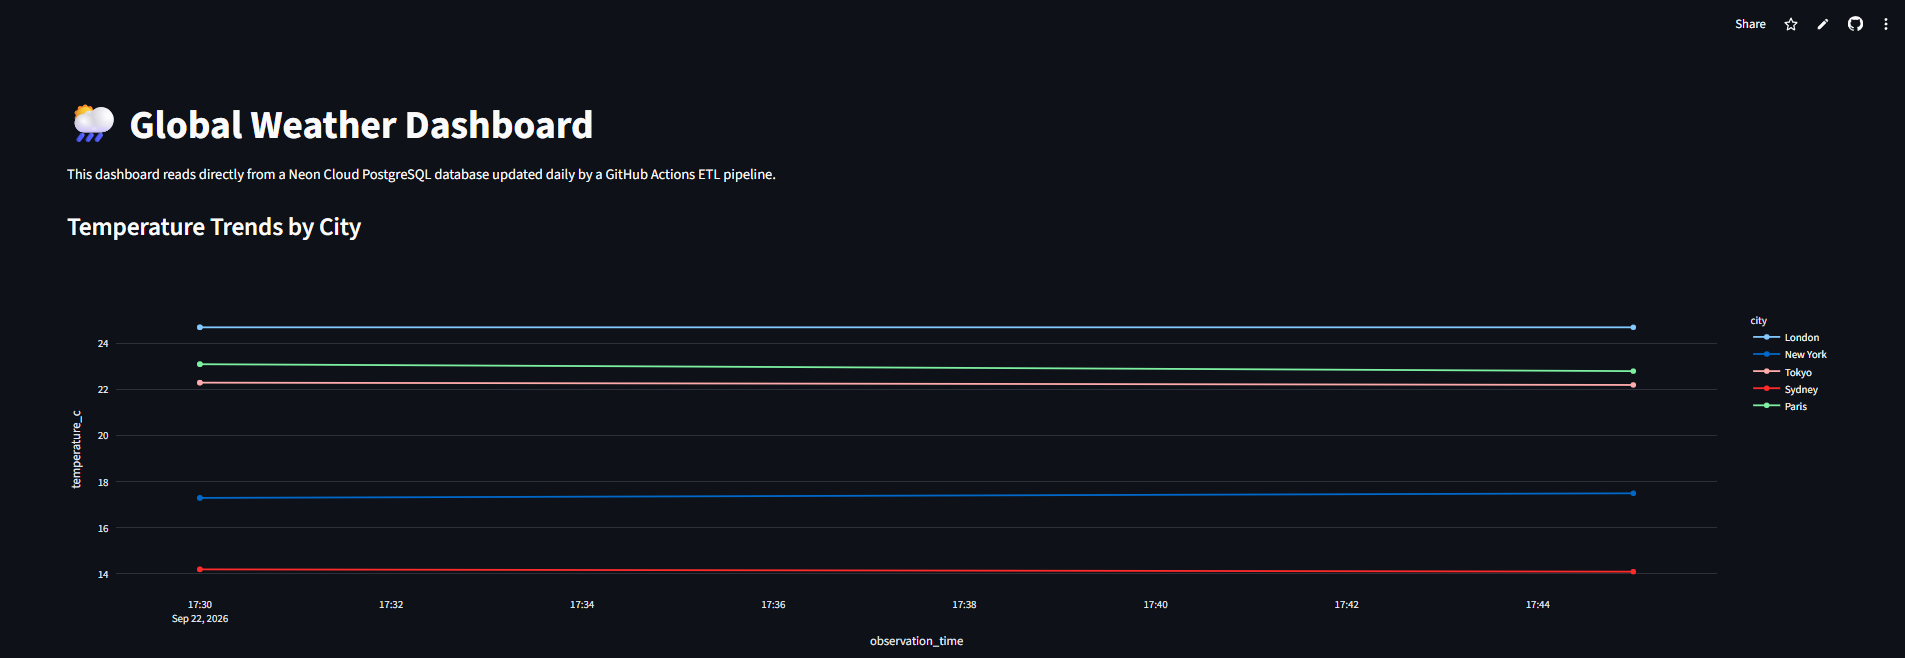
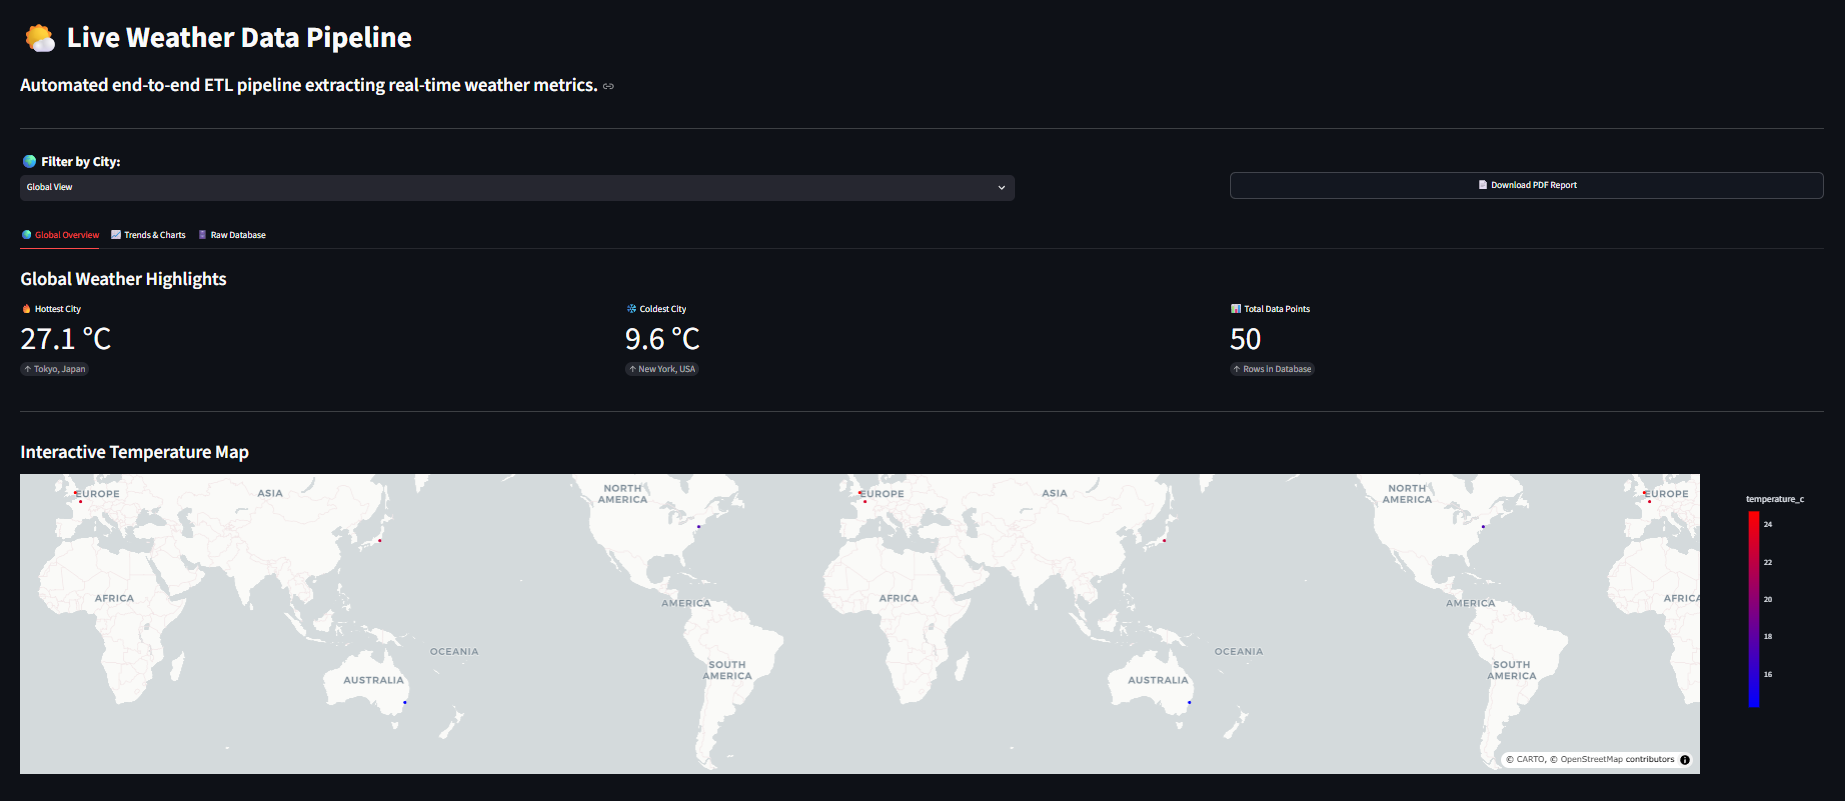
Adjusted README file

diff --git a/README.md b/README.md
@@ -1,35 +1,31 @@
-# Automated Weather ETL Pipeline & Dashboard 🌦
-**[🔴 View Live Dashboard Here](https://automated-weather-etl-pipeline-firdauslani.streamlit.app/)**
-![Weather Dashboard](dashboard.png)
+# ⛅ Automated Weather ETL Pipeline & Dashboard
 
-## Objective
-An end-to-end Data Engineering pipeline that extracts daily weather data for multiple global cities, transforms it into a structured format, loads it into a local SQLite database, and visualizes the results in an interactive web dashboard.
+An end-to-end data engineering portfolio project that automatically extracts live weather data for global cities, stores it in a serverless cloud PostgreSQL database, and visualizes it via a highly interactive web dashboard.
 
-This project demonstrates core ETL concepts, batch processing, automated scheduling, robust error logging, and data visualization.
+![Live Dashboard](dashboard.png)
 
-## Architecture & Data Flow
-1. **Extract:** Fetches real-time weather data (temperature, wind speed) for 5 major cities via the [Open-Meteo API](https://open-meteo.com/). Implements rate-limiting to respect API constraints.
-2. **Transform:** Uses `pandas` to flatten nested JSON data, filter required fields, and inject critical ETL metadata (processing timestamps).
-3. **Load:** Appends the cleaned, batched data into a local `SQLite` database without duplicating historical records.
-4. **Automate:** Scheduled via Windows Task Scheduler to run silently in the background every day.
-5. **Consume:** An interactive `Streamlit` web application reads directly from the SQLite database to display temperature trends and raw data using `plotly`.
+## 🚀 Live Application
+[View the Live Streamlit Dashboard Here](https://automated-weather-etl-pipeline-firdauslani.streamlit.app/)
 
-## Tech Stack
-* **Language:** Python 3
-* **Data Processing:** `pandas`, `requests`
-* **Database:** SQLite (`sqlite3`)
-* **Visualization:** `streamlit`, `plotly`
-* **Orchestration:** Windows Task Scheduler
+## 🛠 Architecture & Tech Stack
+* **Data Source:** Open-Meteo API (Live temperature and wind speed)
+* **Extract & Transform:** Python (Pandas, Requests)
+* **Load & Storage:** Neon Cloud PostgreSQL (Serverless Database)
+* **Automation:** GitHub Actions (CI/CD Cron Scheduler)
+* **Data Visualization:** Streamlit Community Cloud & Plotly Express
 
-## Data Engineering Skills Demonstrated
-* **Batch Processing & Rate Limiting:** Looping through multiple API endpoints efficiently while using `time.sleep()` to prevent server bans.
-* **Data Transformation:** Structuring raw, nested API responses into tabular formats suitable for a relational database.
-* **Metadata Tracking:** Adding `etl_processed_at` timestamps to track when rows were ingested, a standard industry practice for auditing.
-* **Robust Error Handling:** Utilizing `raise_for_status()` for API failures and a custom logging module (`custom_logger.py`) to track execution history and capture stack traces in a local `.log` file.
-* **Data Visualization:** Building an interactive, front-end dashboard to make the raw database accessible to business users.
+## 📊 Key Features
+* **Automated ETL Pipeline:** A Python script scheduled via GitHub Actions to fetch, transform, and load new data automatically.
+* **Modern Tabbed UI:** A wide-layout interface featuring custom CSS for emphasized KPIs and seamless tabbed navigation between overviews, trends, and raw data.
+* **Interactive Mapping:** Visualizes the latest global temperatures using Plotly's `scatter_map` with dynamic hover tooltips.
+* **Automated PDF Reporting:** Integrates `fpdf2` to generate on-the-fly, cleanly formatted, downloadable PDF business reports.
+* **Timezone Management:** Raw data is robustly stored in UTC and dynamically transformed to local time (MYT) strictly for UI presentation.
+* **Stateless Cloud Deployment:** Uses pre-compiled `psycopg-binary` drivers and strict environment variables to ensure the app runs flawlessly on cloud servers.
 
-## How to Run Locally
+## 💻 Local Setup & Development
+To run this project locally, ensure you have Python installed, then follow these steps:
 
 1. Clone the repository:
    ```bash
-   git clone [https://github.com/YourUsername/Automated-Weather-ETL-Pipeline.git](https://github.com/YourUsername/Automated-Weather-ETL-Pipeline.git)
+   git clone [https://github.com/firdauslani03/Automated-Weather-ETL-Pipeline](https://github.com/firdauslani03/Automated-Weather-ETL-Pipeline)
+   cd your-repo-name
